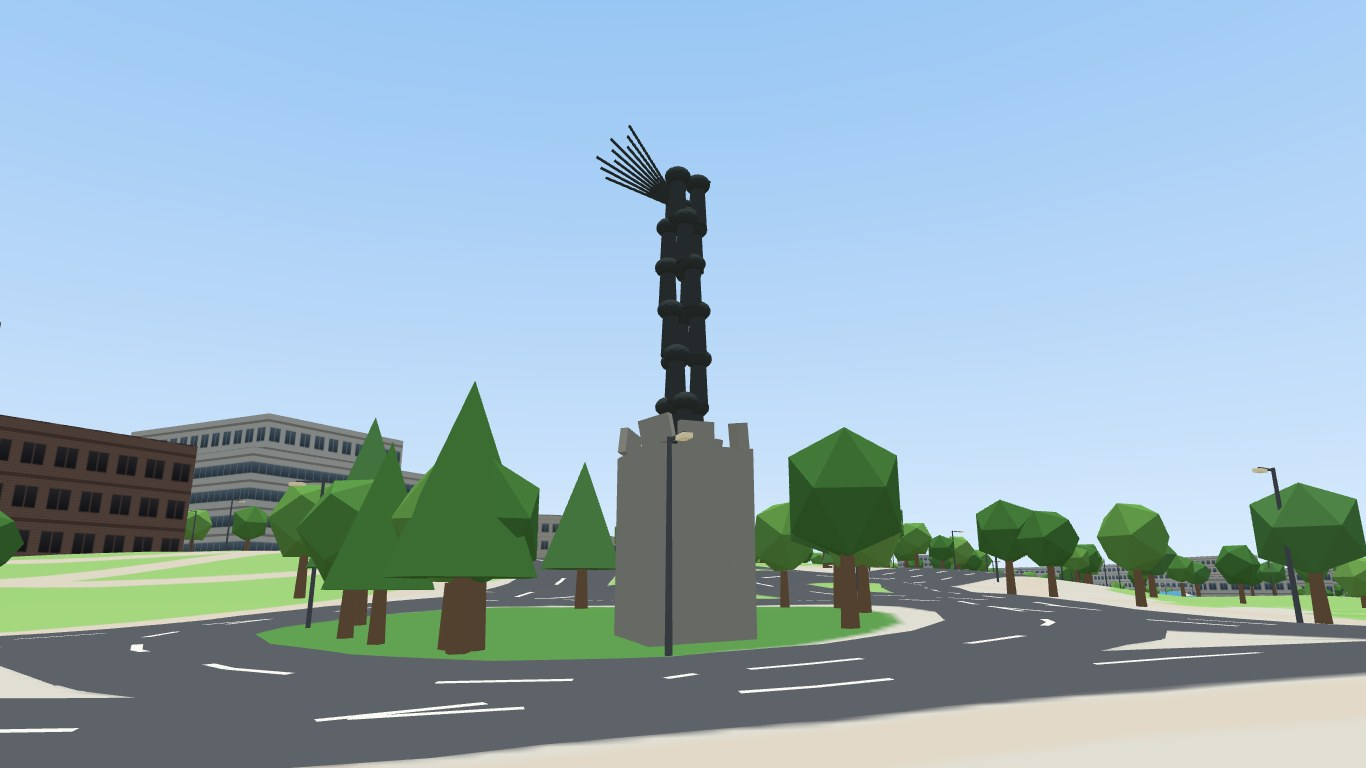
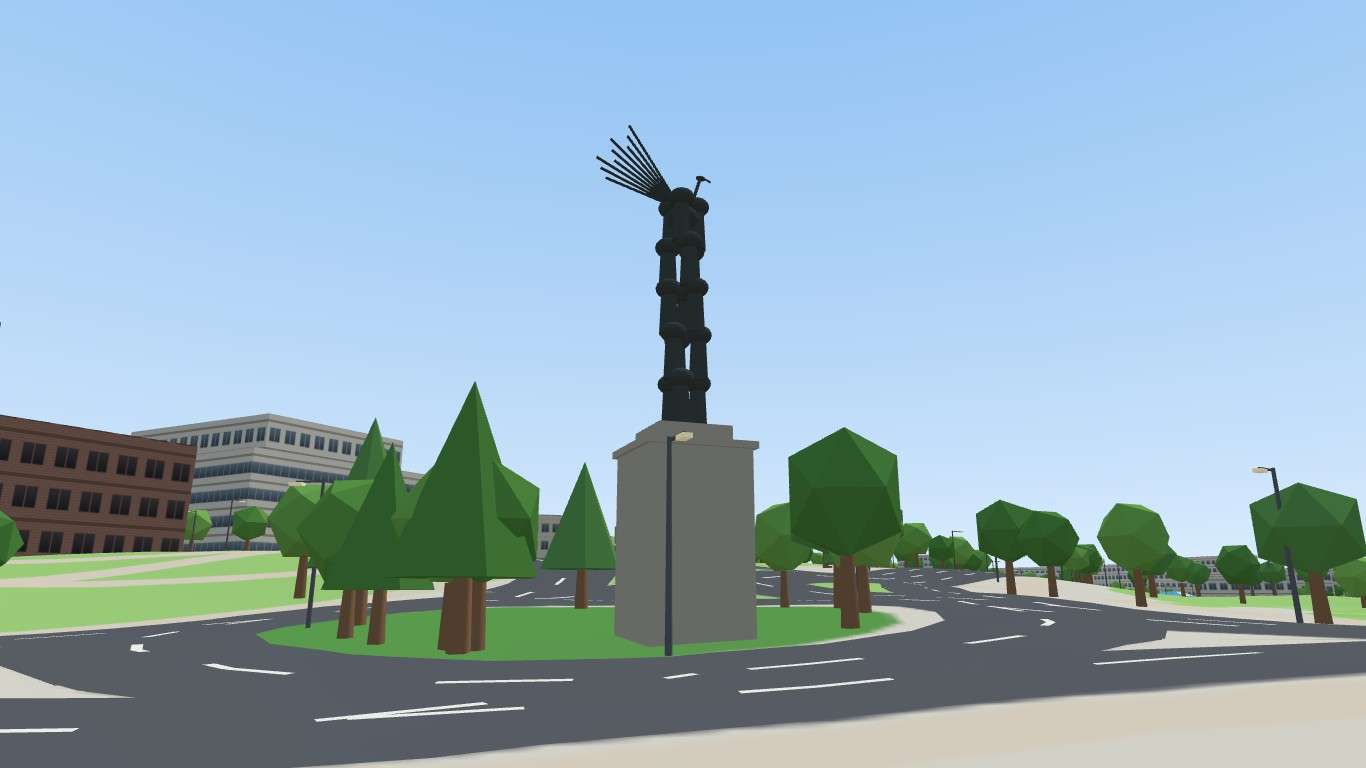
기념물 형태 정돈

diff --git a/assets/js/landscape.js b/assets/js/landscape.js
@@ -1,6 +1,6 @@
 // 조경 소품: 벤치·자전거 보관소·버스정류장, 조형물·기념물, 가로등.
 // 소품과 조형물은 종류마다 한 메시로 합치고(정점 색), 가로등은 InstancedMesh.
-// 기념물은 인물 모양을 만들지 않고 단정한 비석·받침대·탑으로만 표현한다.
+// 기념물은 단정한 비석·받침대·탑으로. 흉상·동상만 이목구비 없는 매끈한 조각으로(마네킹 같은 인물 형상은 쓰지 않음).
 import * as THREE from 'three';
 import { mulberry32, distToSegment, pointInPolygon } from './map.js';
 import { heightAt } from './terrain.js';
@@ -64,18 +64,22 @@ export function buildLandscape(scene, campus) {
 
   // 기념물: data/monuments.json(형태·크기·근거)이 있으면 그것으로. 부딪혀도 조용히 멈추는 충돌(quietObstacles)
   const quietObstacles = [];
+  const smooth = new PartBuilder(); // 흉상·동상: 매끈한 면(부드러운 음영)
   const monList = campus.monumentsData || (campus.monuments || []).map((m) => ({ ...m, form: m.shape }));
   for (const m of monList) {
     const [x, z] = m.p;
     if (m.form !== 'plaza' && roads.onRoad(x, z)) { removed++; continue; }
     const near = roads.nearest(x, z, 30, false);
     const yaw = m.angle != null ? (m.angle * Math.PI) / 180 : near ? Math.atan2(near.x - x, near.z - z) : 0;
-    const { top, half } = monument(parts, m, x, z, yaw);
+    const { top, half } = monument(parts, m, x, z, yaw, smooth, group);
     if (half > 0) quietObstacles.push(square(x, z, half, yaw));
     // 이름표는 OSM의 공식 이름만 (설명 문구 없음)
     if (m.name && m.form !== 'plaza') labels.push({ text: m.name, x, y: heightAt(x, z) + top + 1.2, z, maxDist: m.form === 'tower' ? 160 : MONUMENT_LABEL_DIST });
   }
   group.add(buildPavement(monList));
+  const statueMesh = smooth.mesh(false);
+  statueMesh.castShadow = statueMesh.receiveShadow = true;
+  group.add(statueMesh);
 
   const propMesh = parts.mesh();
   propMesh.castShadow = propMesh.receiveShadow = true;
@@ -254,7 +258,7 @@ function busShelter(b, x, z, yaw) {
 // 기념물·조형물 (data/monuments.json: 형태·크기·재료와 근거 등급).
 // 근거가 없는 값은 단순한 기본 형태·크기. 인물상은 실제 사람 비례로, 얼굴은 눈·입 없는 매끈한 조각으로만.
 // 돌려주는 값: 꼭대기 높이, 충돌 사각형 반 폭(0이면 충돌 없음)
-function monument(b, m, x, z, yaw) {
+function monument(b, m, x, z, yaw, smooth, deco) {
   const T = b.frame(x, z, yaw);
   const c = m.color || STONE;
   switch (m.form) {
@@ -263,12 +267,10 @@ function monument(b, m, x, z, yaw) {
       const base = m.baseColor || STONE, H = m.height || 17;
       const P = H * 0.36, top = H * 0.87;
       b.box(T, 0, (P - 1) / 2, 0, 3.6, P + 1, 3.6, base);   // 받침 (비탈에서 뜨지 않게 아래로 1m 더)
-      for (const [sx, sz] of [[-1, -1], [1, -1], [1, 1], [-1, 1]]) {   // 받침 위 네 귀퉁이 비스듬한 돌 판
-        b.boxRot(T, sx * 1.45, P + 0.45, sz * 1.45, 1.1, 0.9, 0.3, 0, Math.atan2(sx, sz), 0.2, base);
-      }
-      b.box(T, 0, P + 0.45, 1.2, 1.2, 0.9, 0.3, base);      // 앞가운데 세운 돌 판
+      b.box(T, 0, P + 0.12, 0, 3.9, 0.24, 3.9, base);       // 받침 머릿돌 (살짝 내민 판)
+      b.box(T, 0, P + 0.24 + 0.3, 0, 2.6, 0.6, 2.6, base);  // 몸체를 받치는 낮은 단
       for (let k = 0; k < 3; k++) {                          // 마디 진 몸체 셋이 서로 감기며 올라감
-        for (let y = P; y < top; y += 1.7) {                 // 사진에서 기둥마다 마디 약 5개
+        for (let y = P + 0.84; y < top; y += 1.7) {                 // 사진에서 기둥마다 마디 약 5개
           const a = k * (Math.PI * 2 / 3) + y * 0.3;
           const px = Math.cos(a) * 0.55, pz = Math.sin(a) * 0.55;
           b.cyl(T, px, y, pz, 0.28, 0.36, 1.75, c, 8);
@@ -286,28 +288,36 @@ function monument(b, m, x, z, yaw) {
       }
       return { top: H, half: 1.8 };
     }
-    case 'bust': {   // 받침대 + 실물 크기 흉상 (얼굴 표현 없음)
+    case 'bust': {   // 받침대 + 실물 크기 고전 흉상 (이목구비 없음, 매끈한 면)
       b.box(T, 0, 0.15, 0, 1.2, 0.3, 1.2, STONE);
       b.box(T, 0, 0.95, 0, 0.7, 1.3, 0.7, GRANITE);
-      const y0 = 1.6;
-      b.cylScaled(T, 0, y0, 0, 0.33, 0.24, 0.3, c, 1, 0.55);  // 가슴 (아래가 반듯이 잘린 흉상, 위로 어깨까지 넓어짐)
-      b.ell(T, 0, y0 + 0.3, 0, 0.33, 0.13, 0.18, c);       // 둥근 어깨
-      b.cyl(T, 0, y0 + 0.38, 0, 0.065, 0.075, 0.14, c, 10); // 목
-      b.ell(T, 0, y0 + 0.64, 0.01, 0.105, 0.135, 0.12, c); // 머리
-      return { top: y0 + 0.8, half: 0.7 };
+      b.box(T, 0, 1.63, 0, 0.8, 0.06, 0.8, STONE);         // 받침대 머릿돌
+      smooth.add(lathe(BUST_PROFILE, BUST_DEPTH), shift(T, 0, 1.66, 0), c);
+      return { top: 1.66 + 0.8, half: 0.7 };
     }
-    case 'statue': { // 받침대 + 선 자세 인물 (사람 키, 얼굴 표현 없음)
+    case 'statue': { // 받침대 + 긴 외투를 입고 선 동상 (사람 키, 이목구비 없음, 매끈한 면)
       b.box(T, 0, 0.2, 0, 1.6, 0.4, 1.6, STONE);
       b.box(T, 0, 1.0, 0, 1.2, 1.2, 1.2, GRANITE);
-      figure(b, T, 0, 1.6, 0, c);
-      return { top: 3.4, half: 0.8 };
+      b.box(T, 0, 1.63, 0, 1.3, 0.06, 1.3, STONE);
+      const S = shift(T, 0, 1.66, 0);
+      smooth.add(new THREE.CylinderGeometry(0.34, 0.36, 0.06, 24).scale(1, 1, 0.8).translate(0, 0.03, 0), S, c); // 동상 발판
+      smooth.add(lathe(STATUE_PROFILE, STATUE_DEPTH), S, c);
+      for (const sx of [-1, 1]) {                           // 팔: 외투 소매가 몸에 붙어 내려옴
+        smooth.add(new THREE.CapsuleGeometry(0.065, 0.5, 6, 12).scale(1, 1, 0.9).rotateZ(sx * 0.07).translate(sx * 0.255, 1.12, 0.01), S, c);
+      }
+      return { top: 1.66 + 1.75, half: 0.8 };
     }
-    case 'group': {  // 원형 받침 + 인물 실루엣 여럿 (사람 키, 나란히 앞을 향해 걷는 자세 없이 곧게 섬)
+    case 'marker': { // 정사영상의 둥근 받침 + 이름을 새긴 낮은 판석 하나 (인물 형상은 근거 없어 넣지 않음)
       const r = (m.base?.d || 4) / 2, h = m.base?.h || 0.5;
-      b.cyl(T, 0, -0.5, 0, r, r, h + 0.5, m.base?.color || STONE, 24);
-      const n = m.figures || 3;
-      for (let i = 0; i < n; i++) figure(b, T, (i - (n - 1) / 2) * 0.85, h, (i % 2) * 0.35 - 0.15, c);
-      return { top: h + 1.8, half: r };
+      b.cyl(T, 0, -0.5, 0, r, r, h + 0.5, m.base?.color || STONE, 32);
+      b.cyl(T, 0, h, 0, r - 0.3, r - 0.25, 0.05, '#b4b1a8', 32); // 받침 윗면 안쪽 단
+      const tilt = -0.32;                                   // 뒤로 살짝 눕힌 판석
+      b.boxRot(T, 0, h + 0.08 + 0.32, 0, 1.4, 0.7, 0.24, tilt, 0, 0, GRANITE);
+      if (m.name) {
+        const I = new THREE.Matrix4().makeRotationX(tilt).setPosition(0, h + 0.08 + 0.32, 0).multiply(new THREE.Matrix4().makeTranslation(0, 0, 0.125));
+        deco.add(inscription(m.name, 1.2, 0.5, T.clone().multiply(I)));
+      }
+      return { top: h + 0.9, half: r };
     }
     case 'stoneFigure': { // 석인(문인석 등): 둥근 몸돌 + 머리 + 납작한 관
       b.box(T, 0, 0.08, 0, 0.8, 0.16, 0.7, STONE);
@@ -359,13 +369,69 @@ function monument(b, m, x, z, yaw) {
   }
 }
 
-// 서 있는 사람 실루엣 (키 약 1.75m): 다리·외투 몸통·팔·목·매끈한 머리. 과장 없는 실제 비례
-function figure(b, T, x, y, z, c) {
-  for (const s of [-1, 1]) b.cyl(T, x + s * 0.1, y, z, 0.075, 0.085, 0.85, c, 8);         // 다리
-  b.cylScaled(T, x, y + 0.75, z, 0.2, 0.24, 0.72, c, 1, 0.62);                              // 몸통
-  for (const s of [-1, 1]) b.cyl(T, x + s * 0.27, y + 0.85, z, 0.05, 0.06, 0.6, c, 8);      // 팔
-  b.cyl(T, x, y + 1.47, z, 0.055, 0.06, 0.1, c, 8);                                         // 목
-  b.ell(T, x, y + 1.64, z, 0.1, 0.125, 0.11, c);                                            // 머리
+// 흉상 옆선(반지름, 높이): 아래가 반듯이 잘린 가슴 → 넓은 어깨 → 목 → 달걀 모양 머리 (약 0.8m, 머리 높이 약 0.25m)
+const BUST_PROFILE = [
+  [0, 0], [0.23, 0], [0.27, 0.06], [0.31, 0.17], [0.34, 0.27], [0.335, 0.33], [0.3, 0.38], [0.22, 0.42],
+  [0.13, 0.45], [0.078, 0.475], [0.075, 0.52], [0.088, 0.55], [0.103, 0.6], [0.11, 0.66], [0.106, 0.72],
+  [0.09, 0.765], [0.058, 0.795], [0, 0.805],
+];
+// 높이별 앞뒤 두께 비율: 가슴·어깨는 납작하게, 목에서 머리로 갈수록 둥글게(머리는 앞뒤로 조금 긺)
+const BUST_DEPTH = (y) => THREE.MathUtils.lerp(0.55, 1.12, THREE.MathUtils.smoothstep(y, 0.42, 0.53));
+
+// 긴 외투를 입고 선 사람 (키 약 1.75m: 외투 자락 → 허리 → 가슴 → 어깨 → 목 → 머리)
+const STATUE_PROFILE = [
+  [0, 0.06], [0.27, 0.06], [0.26, 0.3], [0.235, 0.6], [0.215, 0.9], [0.225, 1.08], [0.245, 1.25], [0.25, 1.36],
+  [0.23, 1.42], [0.15, 1.46], [0.06, 1.5], [0.055, 1.54], [0.08, 1.58], [0.093, 1.64], [0.095, 1.7],
+  [0.085, 1.75], [0.055, 1.79], [0, 1.8],
+];
+const STATUE_DEPTH = (y) => THREE.MathUtils.lerp(0.6, 1.1, THREE.MathUtils.smoothstep(y, 1.46, 1.56));
+
+// 옆선을 돌린 매끈한 몸(정점 법선 유지). depth(y): 앞뒤(z) 두께 비율
+function lathe(profile, depth) {
+  const g = new THREE.LatheGeometry(profile.map(([r, y]) => new THREE.Vector2(r, y)), 28);
+  const p = g.attributes.position, n = g.attributes.normal, v = new THREE.Vector3();
+  for (let i = 0; i < p.count; i++) {
+    const k = depth(p.getY(i));
+    p.setZ(i, p.getZ(i) * k);
+    v.fromBufferAttribute(n, i);
+    v.z /= k;
+    v.normalize();
+    n.setXYZ(i, v.x, v.y, v.z);
+  }
+  return g;
+}
+
+function shift(T, x, y, z) {
+  return T.clone().multiply(new THREE.Matrix4().makeTranslation(x, y, z));
+}
+
+// 판석에 새긴 이름: 돌 색 바탕에 짙은 글자 (캔버스 텍스처)
+function inscription(text, w, h, M) {
+  const cv = document.createElement('canvas');
+  cv.width = 512;
+  cv.height = Math.round(512 * h / w);
+  const x = cv.getContext('2d');
+  x.fillStyle = '#5a5e63';
+  x.fillRect(0, 0, cv.width, cv.height);
+  let size = cv.height * 0.42;
+  const font = () => `600 ${size}px "Malgun Gothic", "Noto Sans KR", sans-serif`;
+  x.font = font();
+  while (x.measureText(text).width > cv.width * 0.86 && size > 10) { size -= 2; x.font = font(); }
+  x.textAlign = 'center';
+  x.textBaseline = 'middle';
+  x.fillStyle = 'rgba(255,255,255,0.18)';
+  x.fillText(text, cv.width / 2 + 1.5, cv.height / 2 + 1.5); // 새긴 홈의 밝은 가장자리
+  x.fillStyle = '#26282b';
+  x.fillText(text, cv.width / 2, cv.height / 2);
+  const tex = new THREE.CanvasTexture(cv);
+  tex.colorSpace = THREE.SRGBColorSpace;
+  tex.anisotropy = 4;
+  const mesh = new THREE.Mesh(new THREE.PlaneGeometry(w, h), new THREE.MeshLambertMaterial({
+    map: tex, polygonOffset: true, polygonOffsetFactor: -1, polygonOffsetUnits: -2,
+  }));
+  mesh.applyMatrix4(M);
+  mesh.receiveShadow = true;
+  return mesh;
 }
 
 // 기념 공간 바닥 (OSM 외곽선 또는 동심원 포장): 땅 위에 얇게, 정사영상 색
@@ -618,13 +684,13 @@ class PartBuilder {
     this.add(new THREE.IcosahedronGeometry(r, 1).translate(x, y, z), T, color);
   }
 
-  mesh() {
+  mesh(flat = true) {
     const geo = new THREE.BufferGeometry();
     geo.setAttribute('position', new THREE.Float32BufferAttribute(this.pos, 3));
     geo.setAttribute('normal', new THREE.Float32BufferAttribute(this.nor, 3));
     geo.setAttribute('color', new THREE.Float32BufferAttribute(this.col, 3));
     geo.computeBoundingSphere();
-    return new THREE.Mesh(geo, new THREE.MeshLambertMaterial({ vertexColors: true, flatShading: true }));
+    return new THREE.Mesh(geo, new THREE.MeshLambertMaterial({ vertexColors: true, flatShading: flat }));
   }
 }
 

diff --git a/index.html b/index.html
@@ -4,23 +4,23 @@
   <meta charset="utf-8">
   <meta name="viewport" content="width=device-width, initial-scale=1">
   <title>전남대 지각 레이스</title>
-  <link rel="stylesheet" href="assets/css/style.css?v=45">
+  <link rel="stylesheet" href="assets/css/style.css?v=47">
   <script type="importmap">
   {
     "imports": {
       "three": "https://cdn.jsdelivr.net/npm/three@0.160.0/build/three.module.js",
-      "./assets/js/map.js": "./assets/js/map.js?v=45",
-      "./assets/js/landscape.js": "./assets/js/landscape.js?v=45",
-      "./assets/js/terrain.js": "./assets/js/terrain.js?v=45",
-      "./assets/js/car.js": "./assets/js/car.js?v=45",
-      "./assets/js/camera.js": "./assets/js/camera.js?v=45",
-      "./assets/js/hud.js": "./assets/js/hud.js?v=45",
-      "./assets/js/voice.js": "./assets/js/voice.js?v=45",
-      "./assets/js/late-mode.js": "./assets/js/late-mode.js?v=45",
-      "./assets/js/missions-data.js": "./assets/js/missions-data.js?v=45",
-      "./assets/js/dialogue-data.js": "./assets/js/dialogue-data.js?v=45",
-      "./assets/js/professor.js": "./assets/js/professor.js?v=45",
-      "./assets/js/professor-config.js": "./assets/js/professor-config.js?v=45"
+      "./assets/js/map.js": "./assets/js/map.js?v=47",
+      "./assets/js/landscape.js": "./assets/js/landscape.js?v=47",
+      "./assets/js/terrain.js": "./assets/js/terrain.js?v=47",
+      "./assets/js/car.js": "./assets/js/car.js?v=47",
+      "./assets/js/camera.js": "./assets/js/camera.js?v=47",
+      "./assets/js/hud.js": "./assets/js/hud.js?v=47",
+      "./assets/js/voice.js": "./assets/js/voice.js?v=47",
+      "./assets/js/late-mode.js": "./assets/js/late-mode.js?v=47",
+      "./assets/js/missions-data.js": "./assets/js/missions-data.js?v=47",
+      "./assets/js/dialogue-data.js": "./assets/js/dialogue-data.js?v=47",
+      "./assets/js/professor.js": "./assets/js/professor.js?v=47",
+      "./assets/js/professor-config.js": "./assets/js/professor-config.js?v=47"
     }
   }
   </script>
@@ -144,6 +144,6 @@
     <a id="attribution" href="https://www.openstreetmap.org/copyright" target="_blank" rel="noopener">지도 데이터 © OpenStreetMap 기여자</a>
   </div>
 
-  <script type="module" src="assets/js/main.js?v=45"></script>
+  <script type="module" src="assets/js/main.js?v=47"></script>
 </body>
 </html>

diff --git a/assets/js/main.js b/assets/js/main.js
@@ -204,7 +204,7 @@ let lateMode = null;
 async function start() {
   const [campus, lawns, widths, styles, monuments] = await Promise.all([
     loadCampus('data/campus.json?v=6'), loadCampus('data/lawns.json?v=1'), loadCampus('data/road-widths.json?v=1'),
-    loadCampus('data/building-styles.json?v=6'), loadCampus('data/monuments.json?v=3'),
+    loadCampus('data/building-styles.json?v=6'), loadCampus('data/monuments.json?v=4'),
     loadTerrain('data/terrain.json?v=2'),
   ]);
   applyRoadWidths(campus, widths.roads); // 수치지도·정사영상으로 잰 실제 차도 폭 (scripts/ngii_roads.py)

diff --git a/scripts/build_monuments.py b/scripts/build_monuments.py
@@ -25,14 +25,14 @@ YB_PHOTO = '위키미디어 공용 "CNU Yongbong Tower.JPG" (Wikicnu, CC BY 3.0,
 NONE = "근거 없음"
 
 # 번호는 campus.json monuments 순서(1부터). 형태 종류:
-# tower 용봉탑 / stele 비석 / bust 흉상 / statue 동상 / stoneFigure 석인 / jangseung 장승 / group 군상 /
+# tower 용봉탑 / stele 비석 / bust 흉상 / statue 동상 / stoneFigure 석인 / jangseung 장승 / marker 받침 + 이름 판석 /
 # sculpture 추상 조형물 / installation 설치물 / mural 벽화 / plaza 기념 공간(바닥만)
 SPEC = {
     1: dict(form="stele", note="정사영상 범위 밖(서쪽 끝)", grade=NONE),
-    2: dict(form="group", dx=-3.8, dz=-2.7, base=dict(shape="round", d=4.5, h=0.5), figures=3, material="stone",
+    2: dict(form="marker", dx=-3.8, dz=-2.7, base=dict(shape="round", d=4.5, h=0.5), material="stone",
             grade="준확실(정사영상·태그)",
             evidence={"위치·바닥": "정사영상: OSM 점에서 서쪽 3.8m에 지름 약 4.5m의 흰 원형 받침", "재료": "OSM material=stone, artwork_type=statue",
-                      "인물 수·자세·높이": NONE + " (사진 없음 → 단순한 인물 실루엣 3개, 사람 키)"}),
+                      "조각 형태": NONE + " (사진 없음 → 인물 형상은 넣지 않고, 받침 위에 이름을 새긴 낮은 판석 하나로 단순화)"}),
     3: dict(form="sculpture", material="stone", grade="준확실(정사영상·태그)",
             evidence={"재료·종류": "OSM material=stone, artwork_type=sculpture", "형태·크기": NONE + " (정사영상에서 식별 안 됨)"}),
     4: dict(form="stele", material="stone", grade="준확실(정사영상·태그)",
@@ -41,7 +41,7 @@ SPEC = {
             evidence={"바닥 크기·방향": "정사영상: 길이 약 8.7m × 폭 1.7m의 흰 돌 판이 북동-남서로 놓임", "재료": "OSM material=stone",
                       "높이": NONE + " (기본 1.5m)"}),
     6: dict(form="bust", grade="준확실(정사영상·태그)",
-            evidence={"종류": "OSM artwork_type=bust (작가 최은태)", "재료·크기·자세": NONE + " (사진 없음 → 받침대 + 매끈한 흉상, 실물 크기)",
+            evidence={"종류": "OSM artwork_type=bust (작가 최은태)", "재료·크기·자세": NONE + " (사진 없음 → 받침대 + 이목구비 없는 매끈한 고전 흉상, 실물 크기)",
                       "주변": "정사영상: 나무 아래, 옆에 OSM 기념 공간(27번)"}),
     7: dict(form="installation", dx=-2.6, dz=-1.1, d=3.5, colors=True, grade="준확실(정사영상·태그)",
             evidence={"위치·크기·색": "정사영상: 잔디밭에 지름 약 3.5m로 노랑·주황·흰 작은 조각들이 모여 있음", "형태·높이": NONE + " (낮은 꽃잎 모양 덩이로 단순화)"}),
@@ -75,13 +75,13 @@ SPEC = {
     18: dict(form="sculpture", material="stone", grade="준확실(정사영상·태그)",
              evidence={"종류·재료": "OSM artwork_type=sculpture, material=stone (작가 최규철)", "형태·크기": NONE + " (정사영상에서 식별 안 됨)"}),
     19: dict(form="bust", grade="준확실(정사영상·태그)",
-             evidence={"종류": "OSM artwork_type=bust", "재료·크기": NONE + " (사진 없음 → 받침대 + 매끈한 흉상)"}),
+             evidence={"종류": "OSM artwork_type=bust", "재료·크기": NONE + " (사진 없음 → 받침대 + 이목구비 없는 매끈한 고전 흉상)"}),
     20: dict(form="sculpture", grade=NONE, evidence={"종류": "OSM artwork_type=sculpture (이름 없음)", "형태": NONE + " (나무에 가림)"}),
     21: dict(form="sculpture", grade=NONE, evidence={"종류": "OSM artwork_type=sculpture (이름 없음)", "형태": NONE + " (나무·주차장)"}),
     22: dict(form="stele", material="stone", grade="준확실(정사영상·태그)",
              evidence={"재료·글자": "OSM material=stone, inscription 있음(게임에 넣지 않음)", "형태·크기": NONE}),
     23: dict(form="statue", material="metal", grade="준확실(정사영상·태그)",
-             evidence={"종류·재료": "OSM artwork_type=statue, material=metal (작가 김행신)", "자세·크기": NONE + " (사진 없음 → 받침대 + 선 자세 인물 실루엣, 사람 키)"}),
+             evidence={"종류·재료": "OSM artwork_type=statue, material=metal (작가 김행신)", "자세·크기": NONE + " (사진 없음 → 받침대 + 긴 외투를 입고 선 매끈한 동상, 사람 키, 이목구비 없음)"}),
     24: dict(form="mural", grade=NONE, evidence={"종류": "OSM artwork_type=mural (선 3점, 이름 없음)", "그림": NONE + " (나무에 가림)"}),
     25: dict(form="plaza", plaza=dict(shape="osm"), grade="준확실(정사영상·태그)",
              evidence={"바닥": "OSM 외곽선 + 정사영상: 지름 약 7m 둥근 화단 섬, 안에 작은 흰 물체들", "기념물 형태": NONE}),

diff --git a/CLAUDE.md b/CLAUDE.md
@@ -88,7 +88,7 @@
 - 빌드 없는 정적 사이트. three.js r160을 CDN(jsDelivr) + import map으로 불러온다. 프레임워크·번들러 없음.
 - **물리: 직접 만든 아케이드 주행**(속도, 가속, 브레이크, 조향, 가벼운 드리프트). 무거운 물리 엔진은 쓰지 않는다 (시간 절약, 조작감 조절 쉬움).
 - 충돌: 차를 원 하나로 보고, 건물 외곽선(2D 다각형)과 부딪히면 밀어내고 감속. 높이 방향 충돌은 없음.
-- 기념물·조형물은 부딪히면 튕김·소리·화면 흔들림 없이 조용히 멈춘다(`addObstacle(..., { quiet: true })`). 인물상은 실제 사람 비례, 얼굴은 눈·입 없이 매끈하게. 이름표는 OSM 공식 이름만.
+- 기념물·조형물은 부딪히면 튕김·소리·화면 흔들림 없이 조용히 멈춘다(`addObstacle(..., { quiet: true })`). 흉상·동상은 옆선을 돌려 만든 매끈한 고전 비례(부드러운 음영), 이목구비 없음. 마네킹 같은 인물 형상·실루엣은 어디에도 쓰지 않는다(임을 위한 행진은 받침 + 이름 새긴 판석). 이름표는 OSM 공식 이름만.
 - 지형: 국토지리정보원 수치지도(2020 1:1,000 우선, 2025 1:5,000) 등고선·표고점·옹벽으로 만든 5m 격자 `data/terrain.json`(`scripts/build_terrain_ngii.py`, 바탕·바깥은 AWS Terrain Tiles `scripts/build_terrain.py`의 사본 data/raw/terrain_aws.json, 정문 앞 출발점 = 0m). 옹벽·석축·제방·법면 선에서는 매끄러움 조건을 끊어 단차를 남긴다. 떼어 둔 표고점으로 검증해 AWS보다 나쁘면 바꾸지 않는다(docs/지형-수치지도.md). `terrain.js`의 `heightAt(x, z)`가 지형 메시와 같은 삼각형으로 보간한다. 땅·녹지·주차장·보행로·운동장은 위에서 본 캔버스 한 장(높음 4096px, 낮음 2048px, 이방성 필터 장치 최대)에 그려 지형 메시 텍스처로 입힌다. 차도와 차선만 가까이서 선명하도록 지형을 따라 휘는 별도 메시(깊이 테스트 + polygonOffset, 땅에서 7cm·11cm)로 그린다. 포장면은 따뜻한 연회색(#dbd7cd). 건물은 외곽선 안 가장 낮은 땅에서 시작해 벽을 1.5m 더 묻고, 나무·정문·소품·이름표·미션 원(지형 따라 휨)·교수님은 땅 위에. 굴착기는 궤도 앞뒤·좌우 땅 높이로 부드럽게 기울고 오르막에서 살짝 느려진다. 카메라는 땅보다 1.2m 이상 위. 굴착기는 옹벽 단차에서 튀지 않게 높이·기울기(18°)·속도용 경사(25%)만 부드럽게 보정. 크레딧 "지형: 국토지리정보원 수치지도(등고선·표고점)" + 바깥 구역 Terrain Tiles 출처.
 - 조작: 방향키/WASD 운전, Space 브레이크(드리프트), Shift 부스터(게이지 사용), E 미션, C 카메라 시점 전환, L 지각 모드, Esc 일시정지.
 - 로컬 확인: 이 폴더에서 `python -m http.server 8000` → `http://localhost:8000` (fetch로 JSON을 읽기 때문에 더블클릭으로는 안 열림).
@@ -109,7 +109,7 @@
 - 국토지리정보원 자료(data/raw/ngii, 커밋 안 함): 정사영상 2025 25cm, 수치지도 2025 1:5,000·2020 1:1,000. 좌표는 EPSG:5186(`scripts/ngii.py`). 게임에는 사진이 아니라 판단 결과만 쓴다: 잔디(`data/lawns.json`), 차도 폭(`data/road-widths.json`), 층수(일괄값·기본값 건물만, 출처 "수치지도"), 지붕색·외관 추정. 잘라낸 사진은 `ref/`(커밋 안 함). 정리는 `docs/참고-조사.md`. 크레딧 "정사영상·수치지도: 국토지리정보원".
 - csv 외관 칸(외관·외벽색·지붕색·외관출처): 외관은 커튼월/벽돌/콘크리트/타일, 비우면 기본. 사람이 고친 값("직접")은 다시 돌려도 유지(`data/building-looks-auto.json`의 지난 자동값과 비교).
 - 정문 진입로: 4차로 + 분리대, 주차 차단기(지붕·요금 부스·빨강·흰 막대, 15m 안이면 올라감), 키 큰 가로수(7m 간격, 약 16m). 차단기 지붕을 막던 OSM 건물(w1163961970)은 뺀다.
-- 조경(OSM 그대로): 연못(반짝이는 수면 + 가장자리 돌), 운동장 종류별 색·라인, 주차장(짙은 회색 + 주차선), 밝은 보행로, 계단 줄무늬, 벤치·자전거 보관소·버스정류장, 조형물·기념물(이름표 + 단정한 비석·받침대·탑, 인물 모양 금지). 가로등은 OSM에 없어 주요 차도 양옆 약 30m 간격으로 배치, 품질 "낮음"에서 숨김.
+- 조경(OSM 그대로): 연못(반짝이는 수면 + 가장자리 돌), 운동장 종류별 색·라인, 주차장(짙은 회색 + 주차선), 밝은 보행로, 계단 줄무늬, 벤치·자전거 보관소·버스정류장, 조형물·기념물(이름표 + 단정한 비석·받침대·탑, 흉상·동상만 매끈한 조각, data/monuments.json). 가로등은 OSM에 없어 주요 차도 양옆 약 30m 간격으로 배치, 품질 "낮음"에서 숨김.
 - 도로: `highway` 선을 종류별 폭(주도로 8m, 일반 6m, 보행로 3m)의 띠로.
 - **화면 구석에 항상 표시:** "지도 데이터 © OpenStreetMap 기여자"
 - 다른 사람의 코드를 복사하지 않는다. 특히 SMASH 대학교(hong-iron.github.io/SMASH)는 코드 재배포 금지 라이선스이므로 **참고만 하고 코드는 새로 작성**한다. 크레딧 화면에 "3D 캠퍼스 아이디어: SMASH 대학교에서 영감"을 적는다.

diff --git a/docs/데이터-근거-요약.md b/docs/데이터-근거-요약.md
@@ -19,7 +19,7 @@
 | **도로 폭** | 수치지도 도로경계·보도, 정사영상 | 도로경계 사이 거리 − 보도·주차장 (74개 도로), 정문 진입로는 사진에서 잼 | **확실** (측량 선 기반) | 74개 차도 | 나머지 도로는 OSM 종류별 폭(**추정**) |
 | **잔디밭** | 정사영상 | 2m 칸마다 초록·밝기·고르기 규칙으로 판별 | **추정** | 약 19,500m² | 나무 그늘·그림자 아래는 빠질 수 있음 |
 | **녹지·주차장·운동장·조형물** | OpenStreetMap | 그대로 사용, 운동장 라인·주차선은 규칙으로 그림 | 위치: **확실** / 라인·소품 모양: **추정** | — | 기념물은 아래 줄 |
-| **기념물·조형물** | OSM 태그(종류·재료) + 정사영상(바닥 원·긴 돌·받침 크기·색) + 위키미디어 공용 사진 1장(용봉탑) | 27곳마다 형태·크기·재료·등급·출처를 `data/monuments.json`에 기록 (`scripts/build_monuments.py`) | 용봉탑 1: **확실(사진)** / 22: **준확실(정사영상·태그)** / 4: **근거 없음** | 27곳 | 사진은 용봉탑뿐. 대부분 높이·세부 모양은 근거 없음이라 단순한 비석·받침·인물 실루엣(얼굴 표현 없음). 이름표는 OSM 공식 이름만 |
+| **기념물·조형물** | OSM 태그(종류·재료) + 정사영상(바닥 원·긴 돌·받침 크기·색) + 위키미디어 공용 사진 1장(용봉탑) | 27곳마다 형태·크기·재료·등급·출처를 `data/monuments.json`에 기록 (`scripts/build_monuments.py`) | 용봉탑 1: **확실(사진)** / 22: **준확실(정사영상·태그)** / 4: **근거 없음** | 27곳 | 사진은 용봉탑뿐. 대부분 높이·세부 모양은 근거 없음이라 단순한 비석·받침. 흉상·동상은 이목구비 없는 매끈한 조각, 임을 위한 행진은 인물 형상 없이 받침 + 이름 판석. 이름표는 OSM 공식 이름만 |
 
 **한 줄 요약:** 땅의 높낮이, 건물의 위치와 높이(대부분), 도로 폭, 지붕은 측량·항공사진에 근거하고, 정문과 건물 4동의 외관은 자유 라이선스 사진에 근거한다. **나머지 건물 벽의 재질·색과 창은 근거가 없어 보기 좋게 고른 값**이다.
 

diff --git a/제작로그.md b/제작로그.md
@@ -115,3 +115,7 @@
 - 기념물 27곳을 OSM 태그 + 정사영상 조각(20m 칸, scripts/monument_crops.py, ref/에만) + 위키미디어 공용 사진으로 조사해 data/monuments.json에 형태·크기·재료·근거 등급·출처를 기록(scripts/build_monuments.py). 확실(사진) 1(용봉탑), 준확실(정사영상·태그) 22, 근거 없음 4. 위키미디어에서 다른 기념물 사진은 못 찾았고, 5·18 안내 사이트는 robots.txt로 막혀 보지 않음.
 - 형태: 용봉탑은 사진 비례(받침 폭 3.6m 기준: 흰 돌 받침 약 6m, 마디 진 청동 몸체, 꼬리 깃이 부채처럼 펼쳐진 새), 임을 위한 행진은 정사영상의 흰 둥근 받침(지름 4.5m) + 인물 실루엣 3, 혁명정신 계승비는 정사영상의 긴 돌(8.7×1.7m, 46°), 흉상·동상은 받침대 + 실제 사람 비례(얼굴 표현 없음), 기념 공간은 OSM 외곽선 바닥(그늘·잔디 색은 칠하지 않음). 근거 없는 것은 단순한 비석·받침.
 - 기념물에 부딪히면 튕김·소리 없이 조용히 멈춤(collider quiet 장애물). 콘솔 오류 없음, 1366×768 한 프레임 그리기 12.3~13.4ms(창이 가려져 rAF fps는 못 잼), 지각 모드 처음부터 결과까지. 비교 ref/compare/, 게임 캡처 docs/captures/기념물-*. Mapillary는 MAPILLARY_TOKEN이 없어 하지 않음.
+
+## 2026-10-25 — 기념물 형태 정돈 (detail 브랜치)
+- 임을 위한 행진: 근거 없는 사람 형상 3개를 빼고 정사영상의 둥근 받침 + 이름을 새긴 낮은 판석만. 마네킹처럼 보이는 형상 함수는 지움.
+- 흉상(윤상원 열사·노벨)과 남강 최상채 박사 동상: 공 머리 + 막대 목 대신 옆선을 돌린 매끈한 고전 비례(부드러운 음영, 이목구비 없음). 용봉탑 받침 윗부분을 머릿돌 + 낮은 단으로 정돈. 비교 docs/captures/기념물-비교-*.jpg.

diff --git a/docs/진행상황.md b/docs/진행상황.md
@@ -1,4 +1,20 @@
-# 진행상황 (밤샘 작업: 실제 전남대와 최대한 비슷하게)
+# 진행상황
+
+## detail 브랜치 (기념물 정리 → 남은 마무리)
+
+작업 브랜치 `detail` (main은 "합쳐" 전까지 그대로). 중간에 멈추면 "(아직)"인 단계부터 이어서.
+
+- [M] 기념물 정리: 끝남. 임을 위한 행진은 사람 형상 3개를 빼고 정사영상 근거의 흰 둥근 받침(지름 4.5m) + 이름을 새긴 낮은 판석(1.4×0.7m, 뒤로 살짝 눕힘)만. 흉상(윤상원 열사·노벨)은 옆선을 돌려 만든 매끈한 고전 흉상(가슴·어깨·목·머리가 이어짐, 부드러운 음영, 이목구비 없음), 남강 최상채 박사 동상은 긴 외투를 입고 선 매끈한 동상(키 1.75m). 둘 다 어색하지 않아 비석으로 바꾸지 않음(판단 근거: docs/captures/기념물-비교-*.jpg). 용봉탑 받침 위 비스듬한 돌 판 4장 → 내민 머릿돌 + 낮은 단. 마네킹 형상 함수(figure) 삭제.
+- [R] 도로 단차·시계탑: (아직)
+- [0] 시간 초과 실패: (아직)
+- [1] 조명: (아직)
+- [2] 캠퍼스 바깥 풍경: (아직)
+- [3] 도로 디테일: (아직)
+- [4] 나무 다양화: (아직)
+- [5] 생동감: (아직)
+- [6] 확인과 보고: (아직)
+
+## 이전: realism 밤샘 작업
 
 작업 브랜치: `realism` (main은 "합쳐" 전까지 건드리지 않음). 중간에 멈추면 이 파일의 "다음에 할 일"부터 이어서.
 
